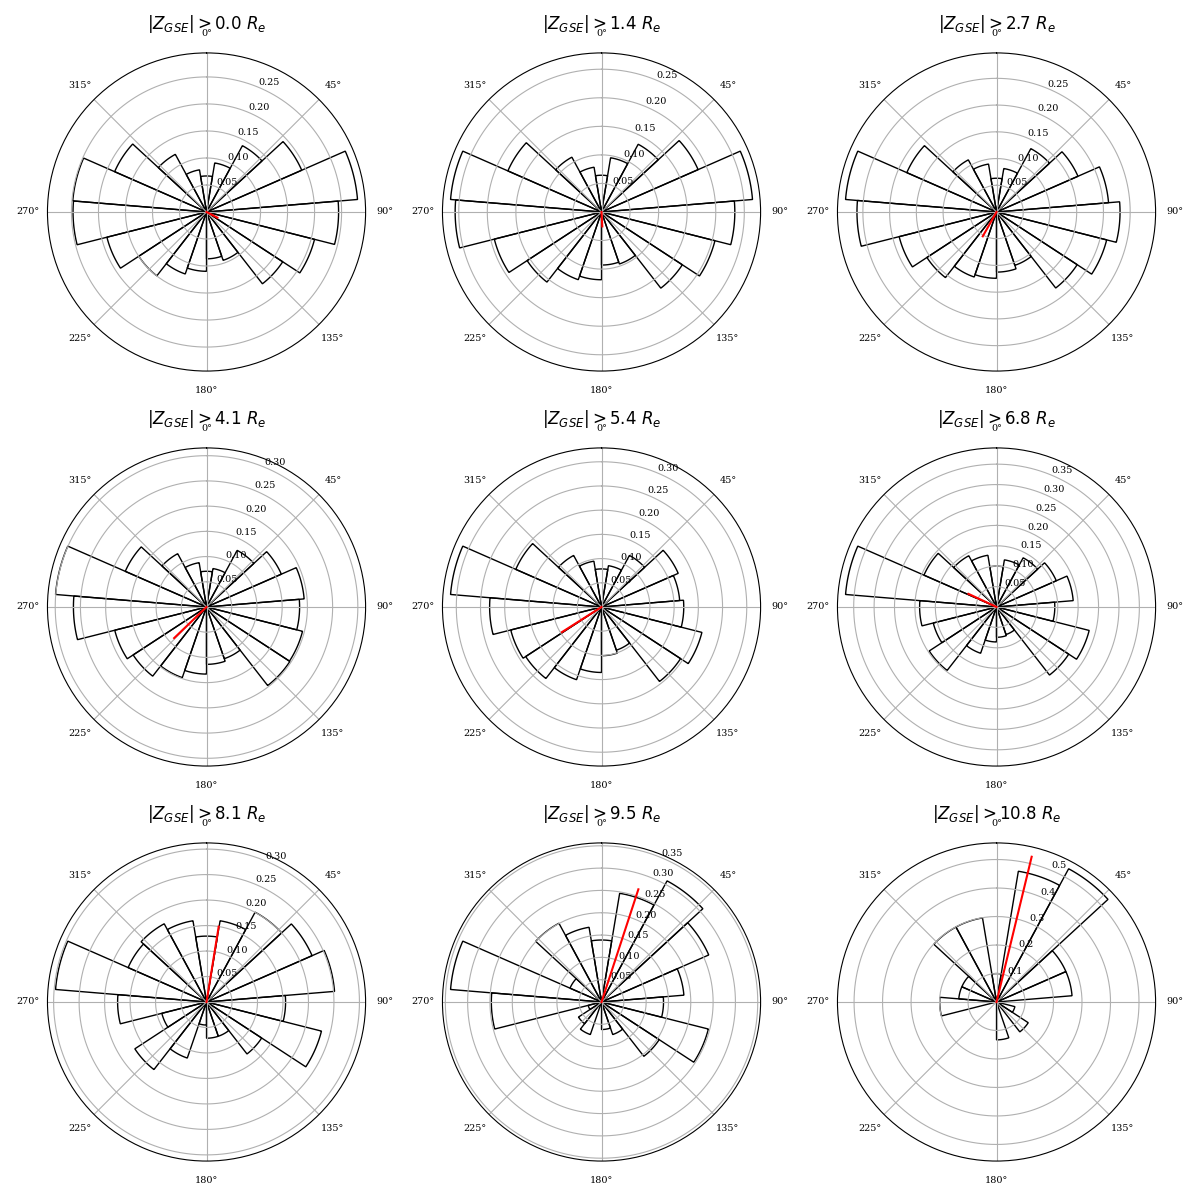
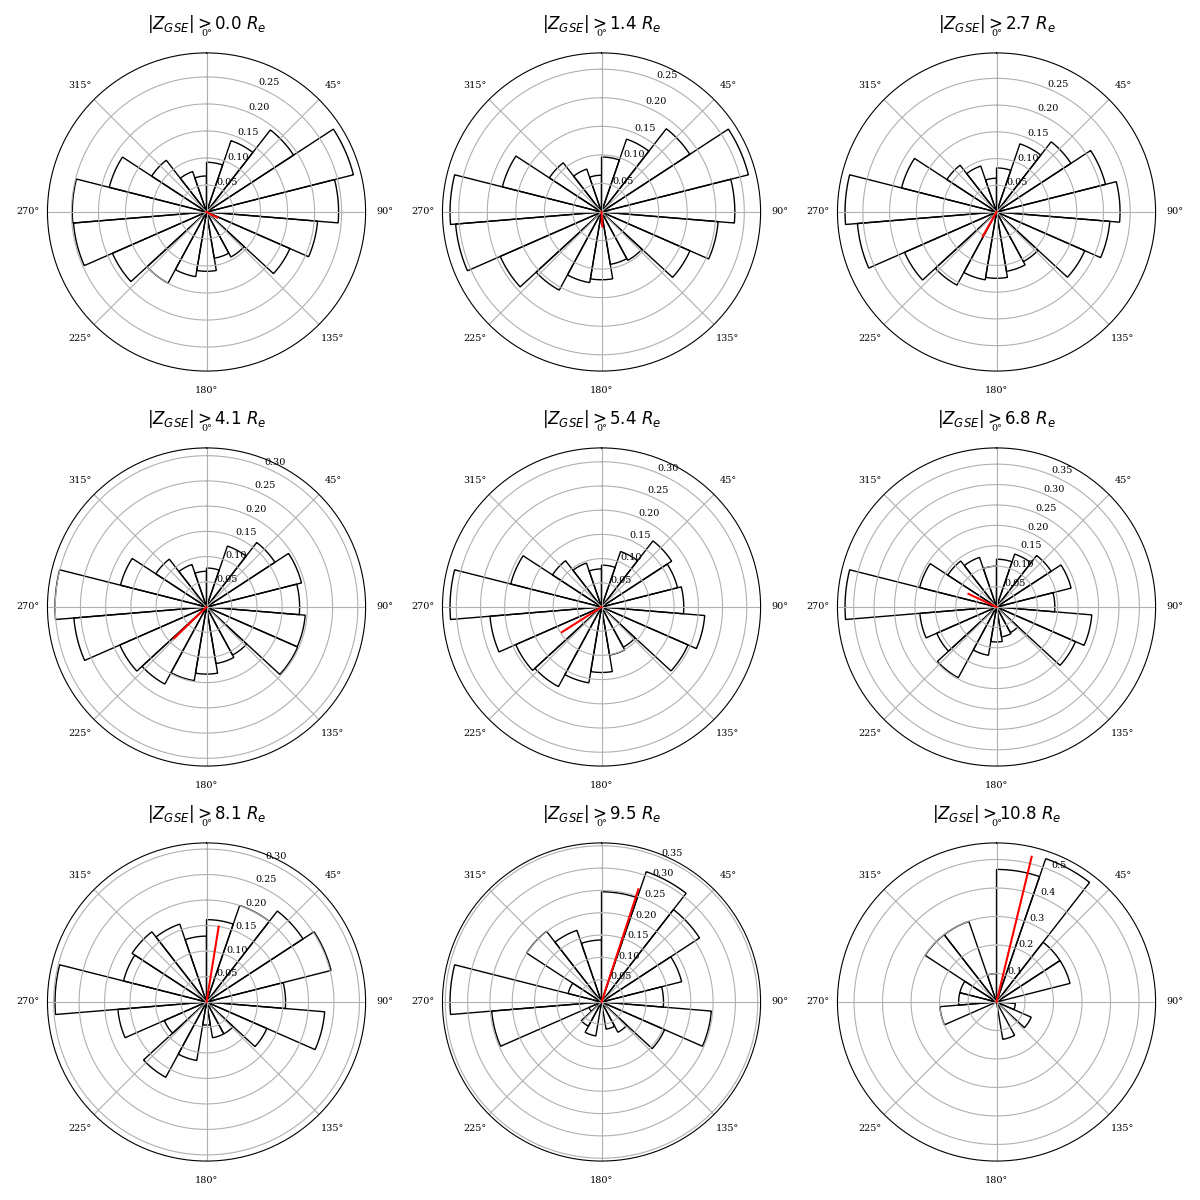
Historgrams of IMF angle 4 2005 & all

diff --git a/python/code/final/imf_angle_hist.py b/python/code/final/imf_angle_hist.py
@@ -25,15 +25,15 @@ with mp.Timer('Timing code'):
     moments = pd.read_csv('moments.csv',
                           index_col=0, parse_dates=True)
 
-    omni = mp.omni(dateRange)
+    # omni = mp.omni(dateRange)
     # omni.to_csv('omni.csv')
-    # omni = pd.read_csv('omniGSE.csv',
-    #    index_col=0, parse_dates=True)
+    omni = pd.read_csv('omniGSE.csv',
+                       index_col=0, parse_dates=True)
 
-    pgp = mp.pgp(dateRange)  # Get predicted geometric position
+    # pgp = mp.pgp(dateRange)  # Get predicted geometric position
     # pgp.to_csv('pgp.csv')
-    # pgp = pd.read_csv('pgpGSE.csv',
-    #   index_col=0, parse_dates=True)
+    pgp = pd.read_csv('pgpGSE.csv',
+                      index_col=0, parse_dates=True)
 
     # data = pd.merge_asof(moments, omni, left_index=True, right_index=True)
     data = pd.merge_asof(moments, pgp, left_index=True, right_index=True)
@@ -86,7 +86,7 @@ with mp.Timer('Timing code'):
         ax.set_theta_zero_location('N')
         ax.set_theta_direction(-1)
         ax.hist(data3.angle, np.linspace(-np.pi, np.pi, 20),
-                edgecolor='k', fill=False, linewidth=1, density=True)
+                edgecolor='k', fill=False, linewidth=1, density=True, align='left')
 
         ax.set_title(f'|Z| > {r:.1f}')
         ax.plot([T]*2, [0, R], color='r')

diff --git a/python/code/final/littleDates_imf_angle_hist.py b/python/code/final/littleDates_imf_angle_hist.py
@@ -86,7 +86,7 @@ with mp.Timer('Timing code'):
         ax.set_theta_zero_location('N')
         ax.set_theta_direction(-1)
         ax.hist(data3.angle, np.linspace(-np.pi, np.pi, 20),
-                edgecolor='k', fill=False, linewidth=1, density=True)
+                edgecolor='k', fill=False, linewidth=1, density=True, align='left')
 
         ax.set_title(rf'$|Z_{{GSE}}| > {r:.1f}\ R_e$')
         ax.plot([T]*2, [0, R], color='r')
